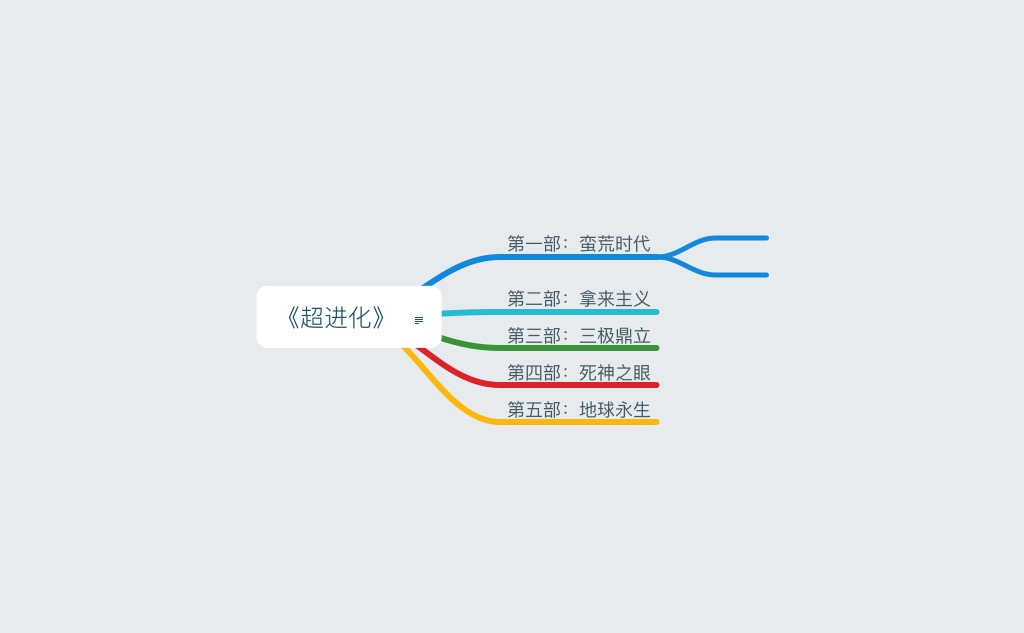
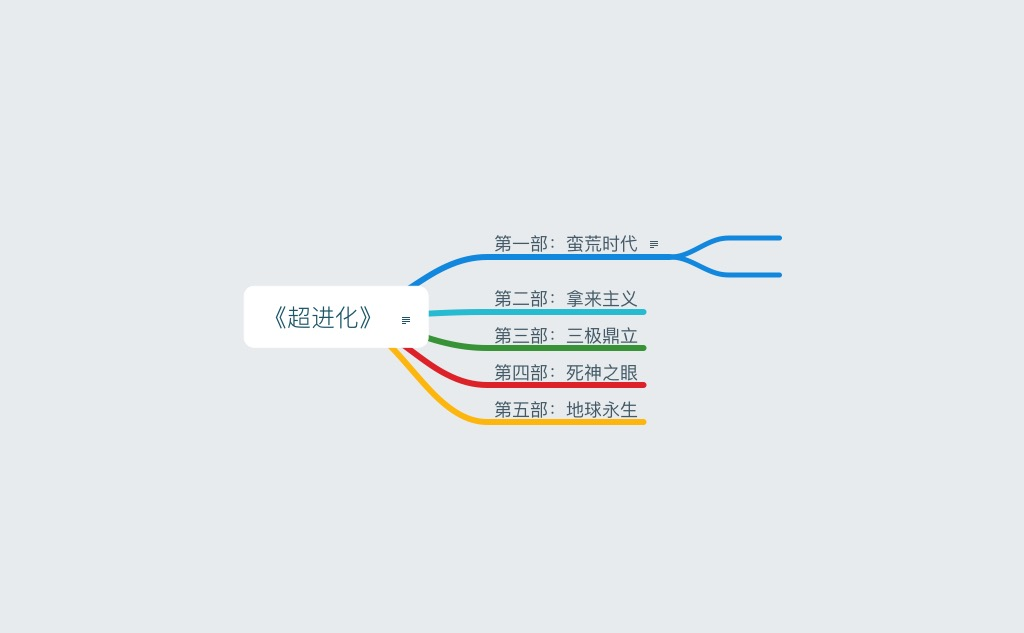
20160806

diff --git a/蛮荒时代/导读.md b/蛮荒时代/导读.md
@@ -1,0 +1,3 @@
+# 导读（xie）
+
+超进化第一部，《蛮荒时代》。主要希望讲述的，是一个基于万物(除了人类)都开始高速进化或是演变的背景下的世界。
